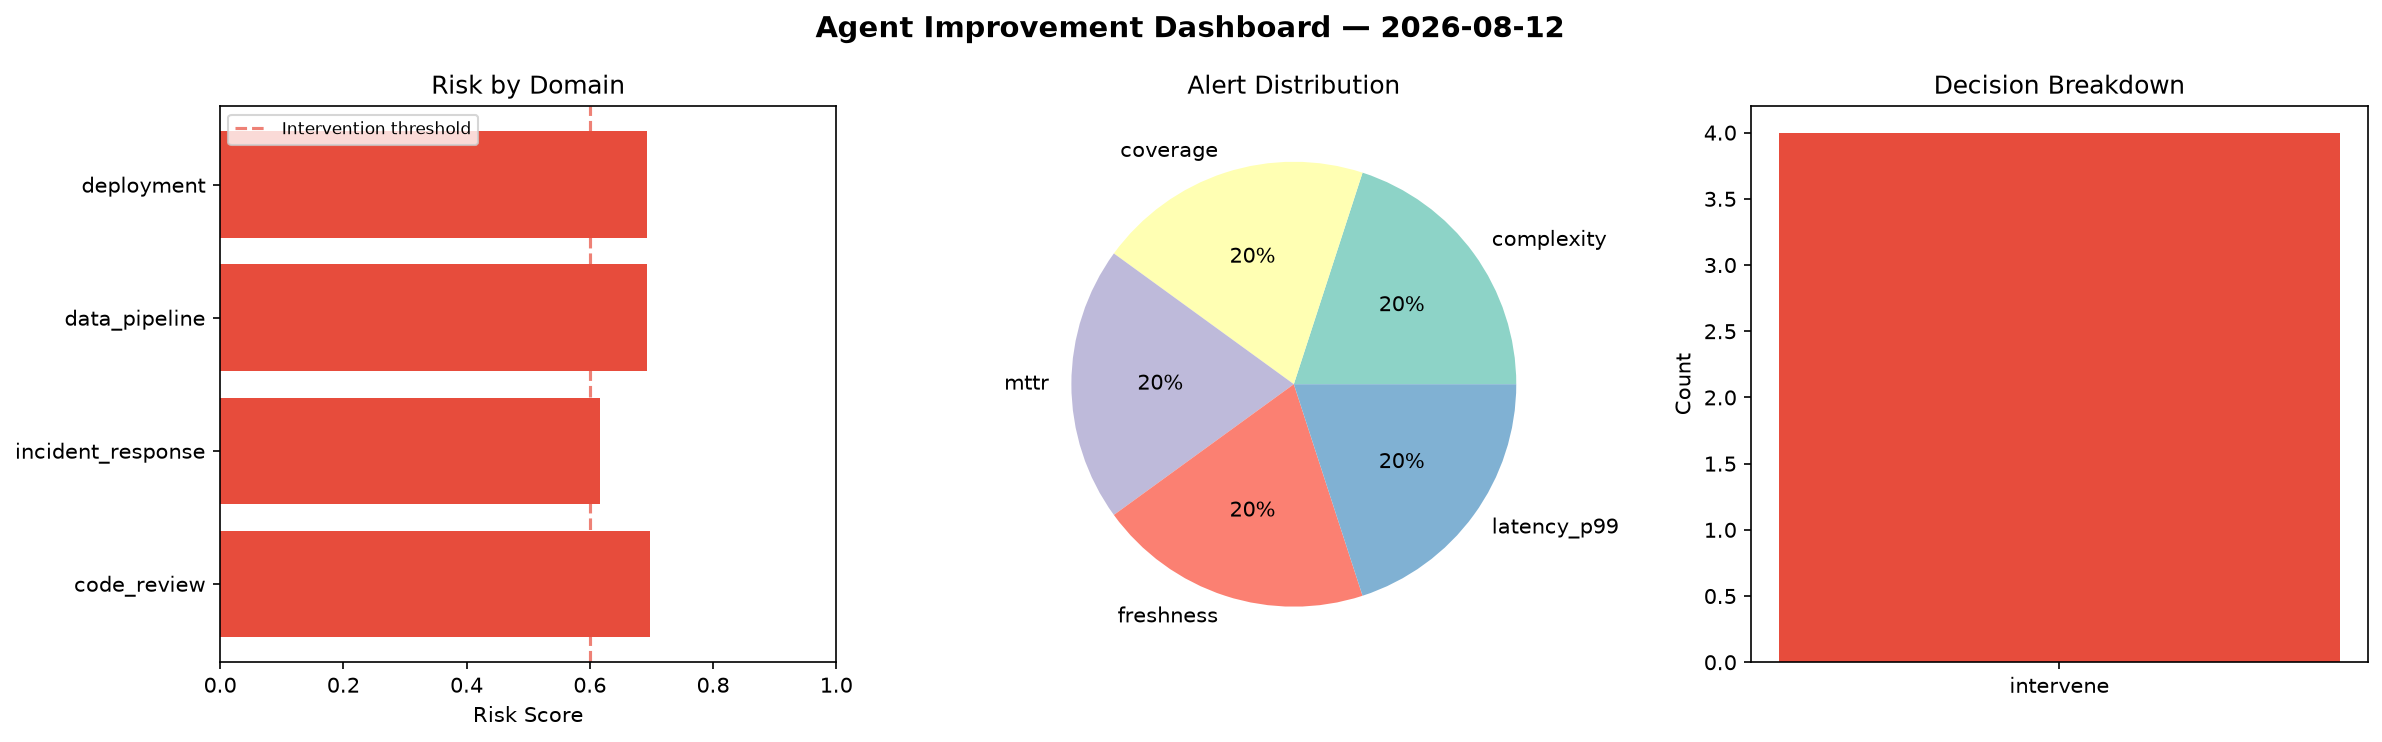
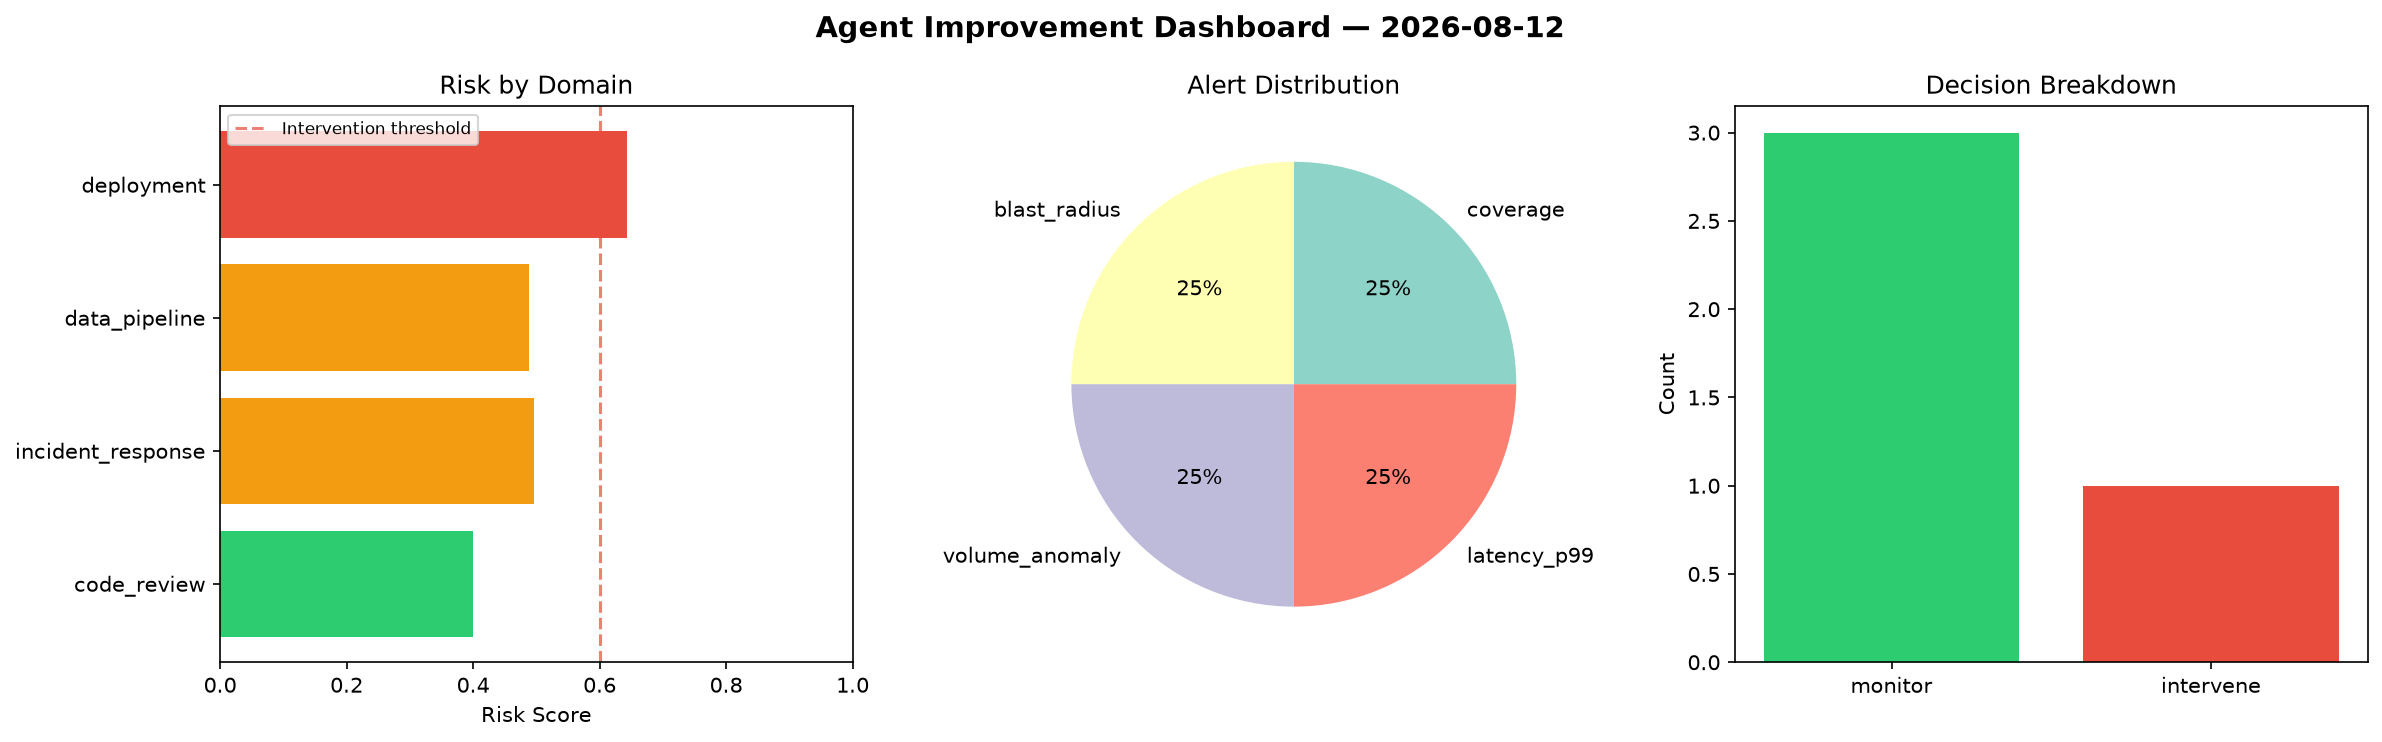
agent-improvement: daily cycle 2026-08-12T21:00

diff --git a/logs/2026-08-12.md b/logs/2026-08-12.md
@@ -1,6 +1,6 @@
 # Agent Improvement Report — 2026-08-12
 
-**Cycle ID:** `64a30e80` | **Avg Risk:** 0.6746 | **Interventions:** 4/4
+**Cycle ID:** `caa5beb9` | **Avg Risk:** 0.5069 | **Interventions:** 1/4
 
 ![Dashboard](2026-08-12_dashboard.png)
 
@@ -10,18 +10,18 @@
 
 | Domain | Risk Score | Decision | Alerts |
 |--------|-----------|----------|--------|
-| code_review | 0.6976 | intervene | complexity, coverage |
-| incident_response | 0.6158 | intervene | mttr |
-| data_pipeline | 0.6925 | intervene | freshness |
-| deployment | 0.6925 | intervene | latency_p99 |
+| code_review | 0.3997 | monitor | coverage |
+| incident_response | 0.497 | monitor | blast_radius |
+| data_pipeline | 0.4876 | monitor | volume_anomaly |
+| deployment | 0.6432 | intervene | latency_p99 |
 
 ## Delta vs Yesterday
 
 | Domain | Today | Yesterday | Change |
 |--------|-------|-----------|--------|
-| code_review | 0.6976 | 0.3434 | 📈 103.1% |
-| incident_response | 0.6158 | 0.4841 | 📈 27.2% |
-| data_pipeline | 0.6925 | 0.5155 | 📈 34.3% |
-| deployment | 0.6925 | 0.4669 | 📈 48.3% |
+| code_review | 0.3997 | 0.3434 | 📈 16.4% |
+| incident_response | 0.497 | 0.4841 | 📈 2.7% |
+| data_pipeline | 0.4876 | 0.5155 | 📉 -5.4% |
+| deployment | 0.6432 | 0.4669 | 📈 37.8% |
 
-**Refinement:** `{'adjustment': 'maintain', 'trend': 'improving', 'window': 4}`
+**Refinement:** `{'adjustment': 'tighten_thresholds', 'trend': 'degrading', 'window': 4}`
